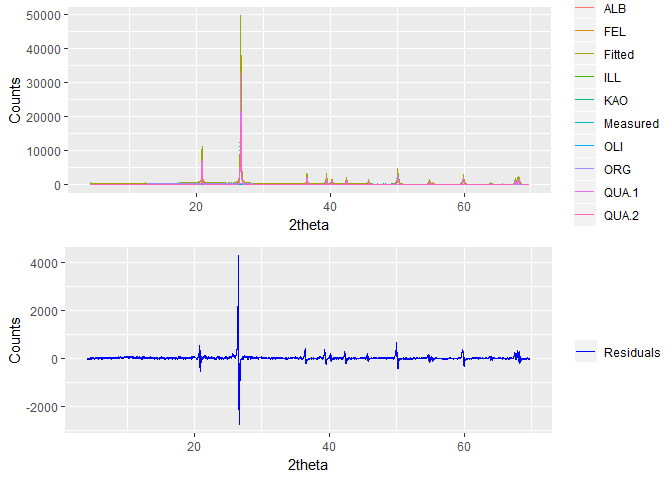
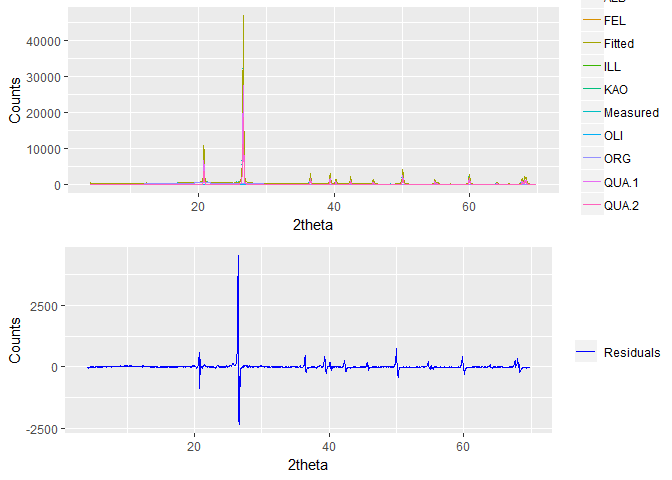
Removed gifs and re-built README

diff --git a/README.md b/README.md
@@ -44,12 +44,12 @@ q <-  fps(lib = minerals,
 #Inspect the phase concentrations (summarised by name)
 q$phases_summary
 #>       phase_name phase_percent
-#> 1         Illite      1.596612
-#> 2     K-feldspar      1.196130
-#> 3      Kaolinite      1.443455
-#> 4 Organic-Matter     38.848924
-#> 5    Plagioclase      1.240560
-#> 6         Quartz     55.674320
+#> 1         Illite      1.237556
+#> 2     K-feldspar      1.250870
+#> 3      Kaolinite      1.390756
+#> 4 Organic-Matter     39.805850
+#> 5    Plagioclase      1.159294
+#> 6         Quartz     55.155674
 
 #Inspect the quantification
 plot(q)
@@ -68,22 +68,6 @@ To run `powdR` via the shiny app, use `run_powdR()`. This loads the application 
 2.  Reference library Viewer: For quick inspection of the phases within a reference library.
 3.  Full pattern summation: A user friendly interface for iterative full pattern summation of single samples.
 4.  Results viewer: Allows for quick inspection of results derived from full pattern summation.
-
-### Example 1: Reference library builder
-
-![](man/figures/library_builder.gif)
-
-### Example 2: Reference library viewer
-
-![](man/figures/library_viewer.gif)
-
-### Example 3: Full pattern summation
-
-![](man/figures/full_pattern_summation.gif)
-
-### Example 4: Results viewer
-
-![](man/figures/full_pattern_summation.gif)
 
 References
 ----------
